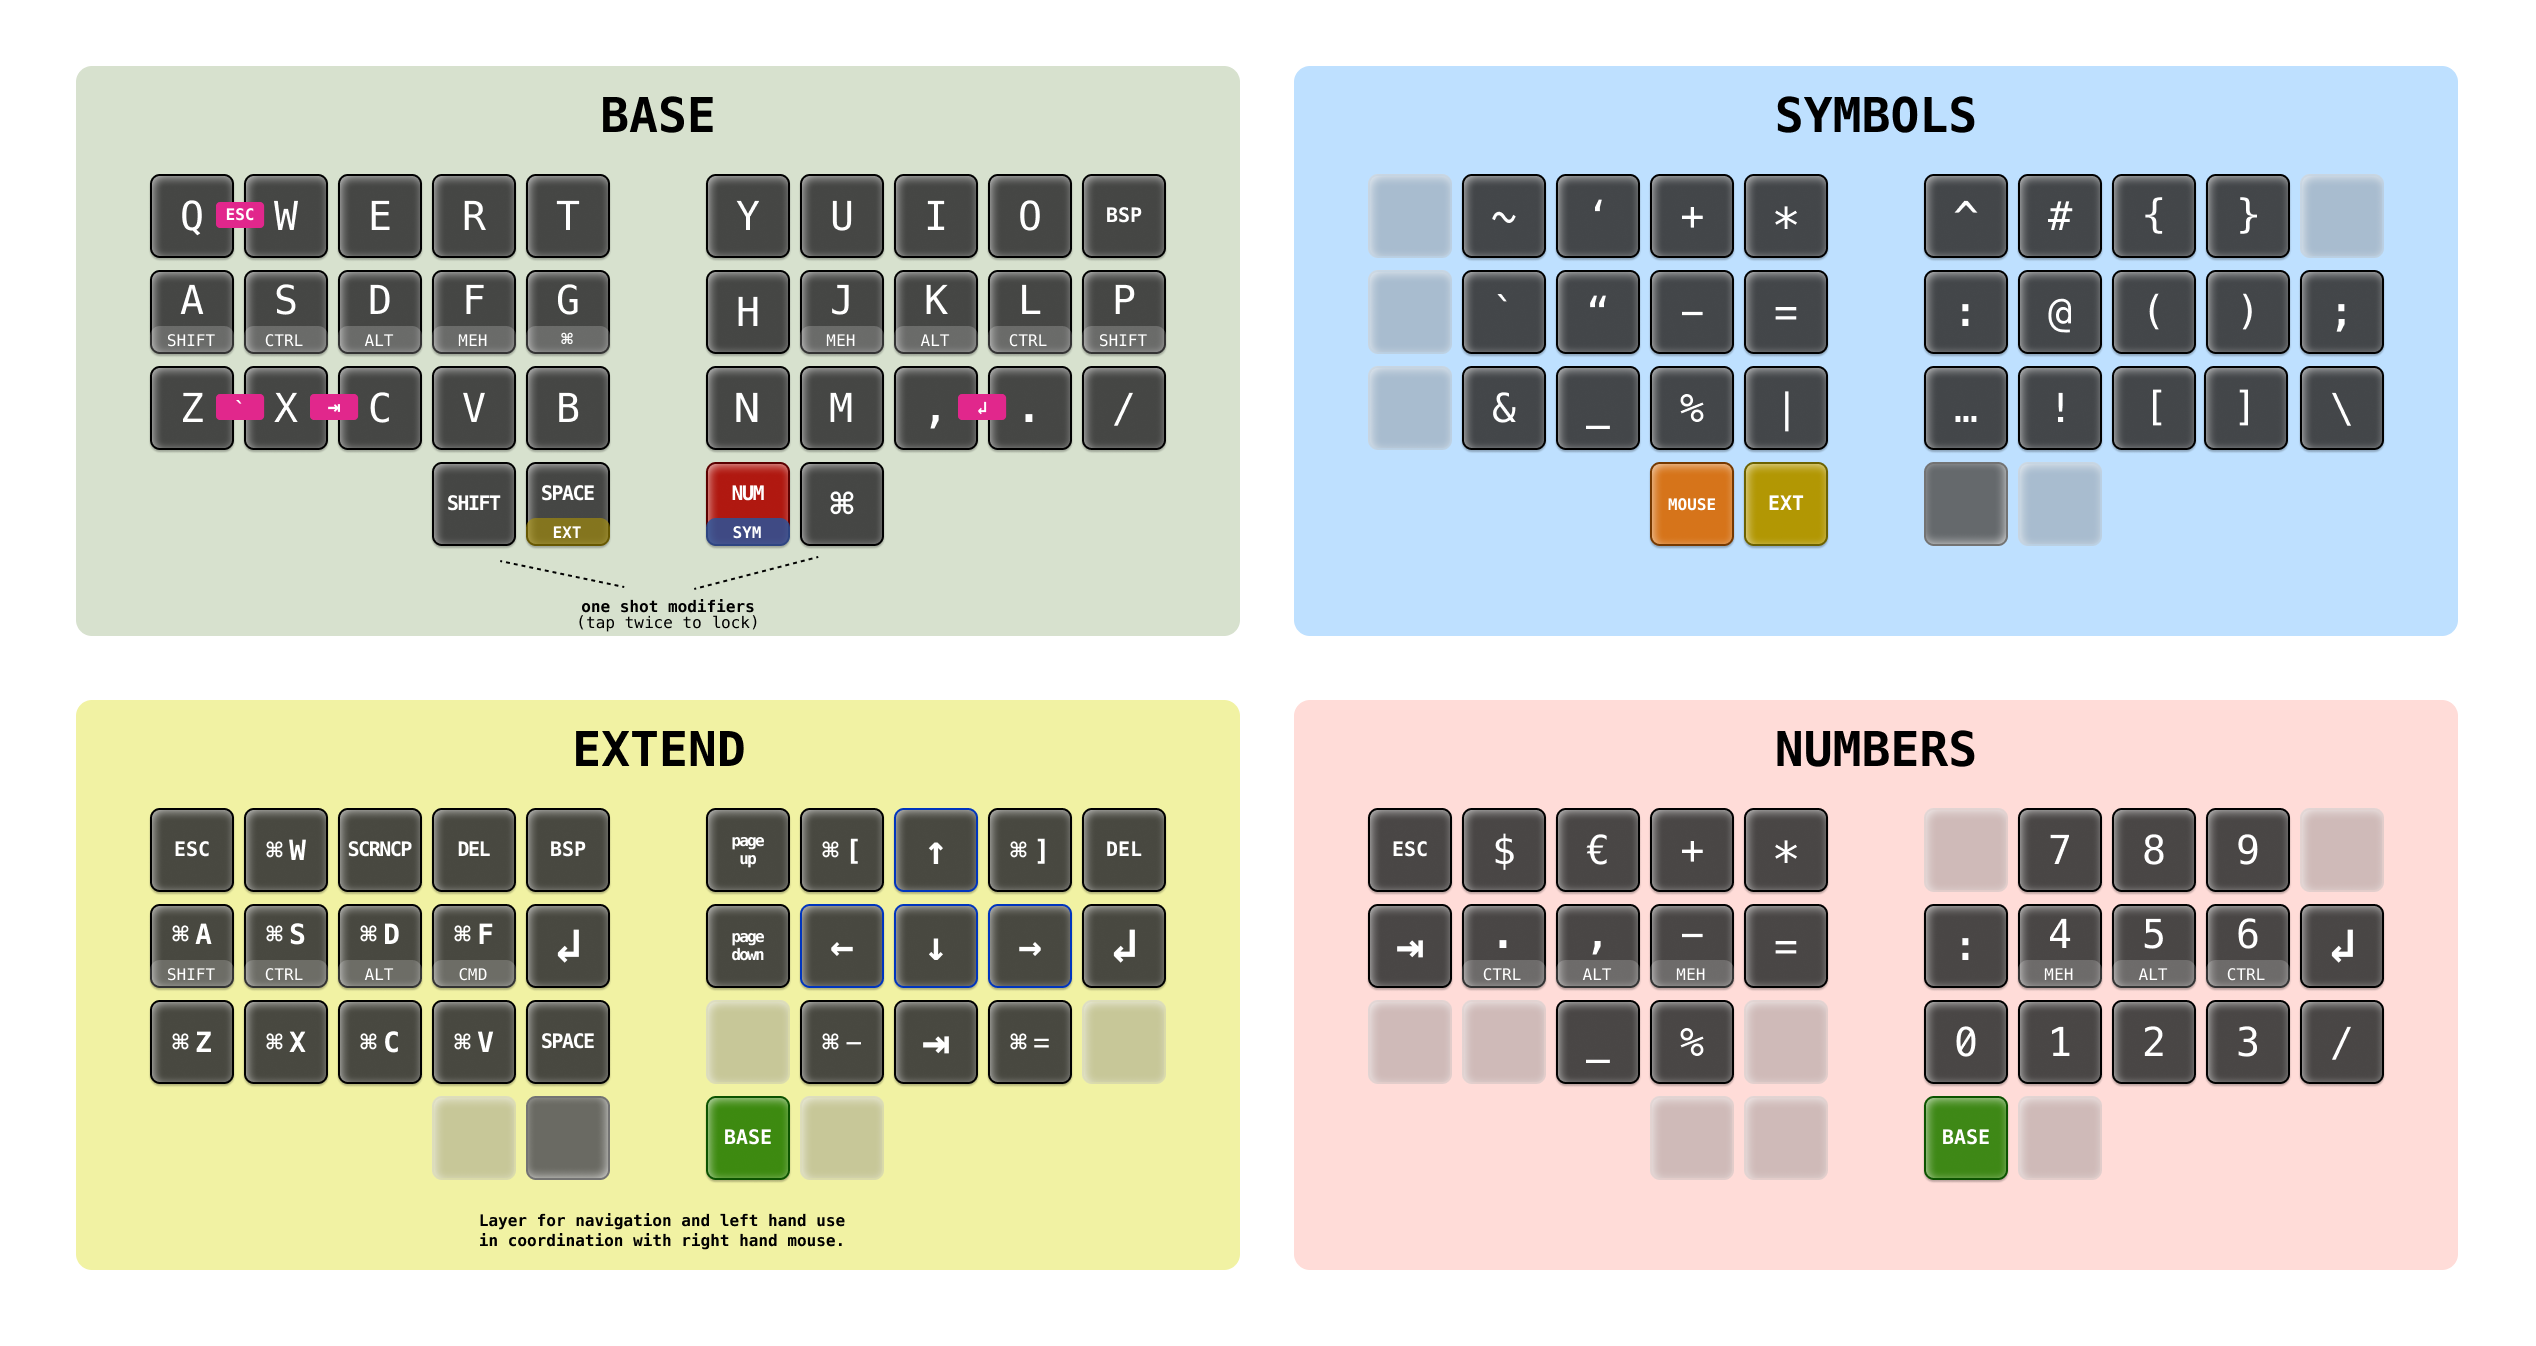
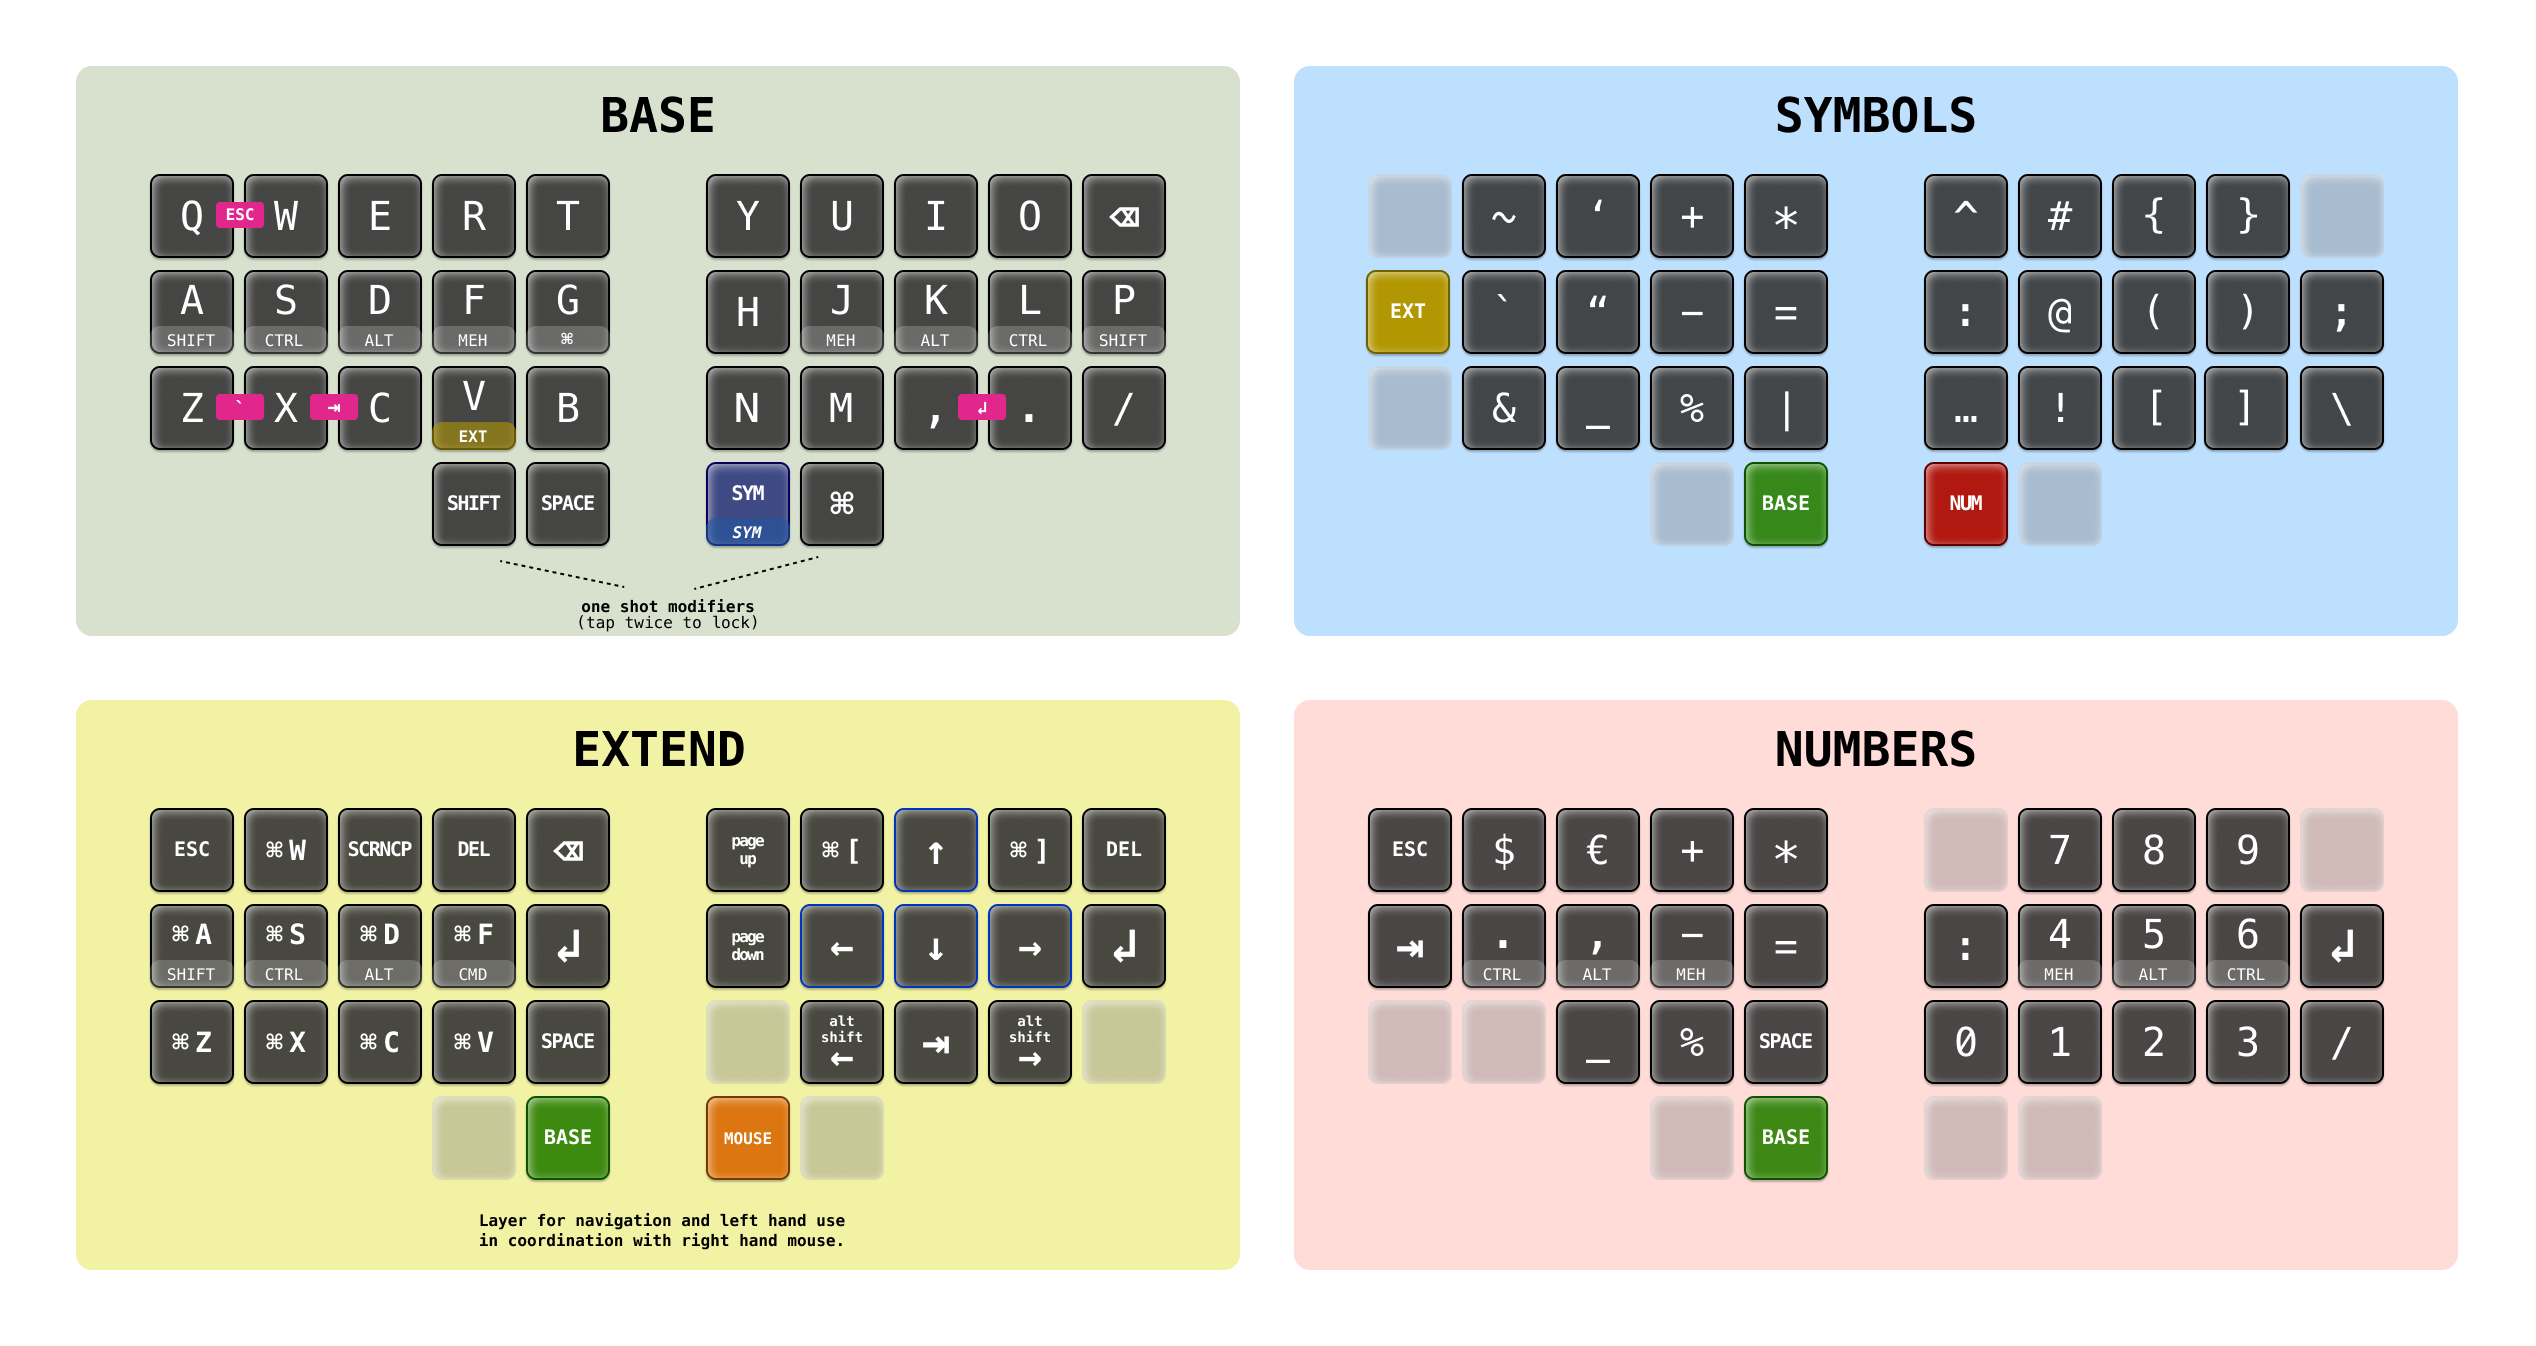
Small updates to thumb sector and extend layer

diff --git a/moonlander-mk3/threefourbase.c b/moonlander-mk3/threefourbase.c
@@ -79,7 +79,7 @@ enum tap_dance_codes {
 #define KR_0_3_1 KC_Z
 #define KR_0_3_2 KC_X
 #define KR_0_3_3 KC_C
-#define KR_0_3_4 KC_V
+#define KR_0_3_4 LT(3, KC_V)
 #define KR_0_3_5 KC_B
 
 #define KR_0_3_6 KC_N
@@ -92,9 +92,9 @@ enum tap_dance_codes {
 
 #define KR_0_4_1 KC_NO
 #define KR_0_4_2 OSM(MOD_LSFT)
-#define KR_0_4_3 LT(3,KC_SPACE)
+#define KR_0_4_3 KC_SPACE
 
-#define KR_0_4_4 TD(DANCE_0)
+#define KR_0_4_4 TT(1)
 #define KR_0_4_5 OSM(MOD_LGUI)
 #define KR_0_4_6 KC_NO
 
@@ -118,7 +118,7 @@ enum tap_dance_codes {
 
 // Mid row
 
-#define KR_1_2_1 KC_TRNS
+#define KR_1_2_1 TO(3)
 #define KR_1_2_2 KC_GRAVE
 #define KR_1_2_3 KC_DQUO
 #define KR_1_2_4 KC_MINUS
@@ -147,10 +147,10 @@ enum tap_dance_codes {
 // Thumb cluser
 
 #define KR_1_4_1 KC_TRNS
-#define KR_1_4_2 TO(4)
-#define KR_1_4_3 TO(3)
+#define KR_1_4_2 KC_TRNS
+#define KR_1_4_3 TO(0)
 
-#define KR_1_4_4 KC_TRNS
+#define KR_1_4_4 TO(2)
 #define KR_1_4_5 KC_TRNS
 #define KR_1_4_6 KC_TRNS
 
@@ -190,7 +190,7 @@ enum tap_dance_codes {
 #define KR_2_3_2 KC_TRNS
 #define KR_2_3_3 KC_UNDS
 #define KR_2_3_4 KC_PERC
-#define KR_2_3_5 KC_TRNS
+#define KR_2_3_5 KC_SPACE
 //
 #define KR_2_3_6 KC_0
 #define KR_2_3_7 KC_1
@@ -202,9 +202,9 @@ enum tap_dance_codes {
 
 #define KR_2_4_1 KC_TRNS
 #define KR_2_4_2 KC_TRNS
-#define KR_2_4_3 KC_TRNS
+#define KR_2_4_3 TO(0)
 
-#define KR_2_4_4 TO(0)
+#define KR_2_4_4 KC_TRNS
 #define KR_2_4_5 KC_TRNS
 #define KR_2_4_6 KC_TRNS
 
@@ -245,18 +245,18 @@ enum tap_dance_codes {
 #define KR_3_3_5 KC_SPACE
 
 #define KR_3_3_6 KC_TRNS
-#define KR_3_3_7 LGUI(KC_MINUS)
+#define KR_3_3_7 S(A(KC_LEFT))
 #define KR_3_3_8 KC_TAB
-#define KR_3_3_9 LGUI(KC_EQUAL)
+#define KR_3_3_9 S(A(KC_RIGHT))
 #define KR_3_3_10 KC_TRNS
 
 // Thumb cluser
 
 #define KR_3_4_1 KC_TRNS
 #define KR_3_4_2 KC_TRNS
-#define KR_3_4_3 KC_TRNS
+#define KR_3_4_3 TO(0)
 
-#define KR_3_4_4 TO(0)
+#define KR_3_4_4 TO(4)
 #define KR_3_4_5 KC_TRNS
 #define KR_3_4_6 KC_TRNS
 
@@ -282,8 +282,8 @@ enum tap_dance_codes {
 #define KR_4_2_1 TD(DANCE_1)
 #define KR_4_2_2 TD(DANCE_2)
 #define KR_4_2_3 TD(DANCE_3)
-#define KR_4_2_4 TD(DANCE_4)
-#define KR_4_2_5 KC_ENTER
+#define KR_4_2_4 KC_BTN1
+#define KR_4_2_5 KC_BTN2
 //
 #define KR_4_2_6 KC_MS_WH_UP
 #define KR_4_2_7 KC_MS_LEFT
@@ -307,10 +307,10 @@ enum tap_dance_codes {
 // Thumb cluser
 
 #define KR_4_4_1 KC_TRNS
-#define KR_4_4_2 KC_BTN2
-#define KR_4_4_3 KC_BTN1
+#define KR_4_4_2 KC_TRNS
+#define KR_4_4_3 TO(0)
 
-#define KR_4_4_4 TO(0)
+#define KR_4_4_4 TO(3)
 #define KR_4_4_5 KC_TRNS
 #define KR_4_4_6 KC_TRNS
 

diff --git a/technik/threefourbase.c b/technik/threefourbase.c
@@ -79,7 +79,7 @@ enum tap_dance_codes {
 #define KR_0_3_1 KC_Z
 #define KR_0_3_2 KC_X
 #define KR_0_3_3 KC_C
-#define KR_0_3_4 KC_V
+#define KR_0_3_4 LT(3, KC_V)
 #define KR_0_3_5 KC_B
 
 #define KR_0_3_6 KC_N
@@ -92,9 +92,9 @@ enum tap_dance_codes {
 
 #define KR_0_4_1 KC_NO
 #define KR_0_4_2 OSM(MOD_LSFT)
-#define KR_0_4_3 LT(3,KC_SPACE)
+#define KR_0_4_3 KC_SPACE
 
-#define KR_0_4_4 TD(DANCE_0)
+#define KR_0_4_4 TT(1)
 #define KR_0_4_5 OSM(MOD_LGUI)
 #define KR_0_4_6 KC_NO
 
@@ -118,7 +118,7 @@ enum tap_dance_codes {
 
 // Mid row
 
-#define KR_1_2_1 KC_TRNS
+#define KR_1_2_1 TO(3)
 #define KR_1_2_2 KC_GRAVE
 #define KR_1_2_3 KC_DQUO
 #define KR_1_2_4 KC_MINUS
@@ -147,10 +147,10 @@ enum tap_dance_codes {
 // Thumb cluser
 
 #define KR_1_4_1 KC_TRNS
-#define KR_1_4_2 TO(4)
-#define KR_1_4_3 TO(3)
+#define KR_1_4_2 KC_TRNS
+#define KR_1_4_3 TO(0)
 
-#define KR_1_4_4 KC_TRNS
+#define KR_1_4_4 TO(2)
 #define KR_1_4_5 KC_TRNS
 #define KR_1_4_6 KC_TRNS
 
@@ -190,7 +190,7 @@ enum tap_dance_codes {
 #define KR_2_3_2 KC_TRNS
 #define KR_2_3_3 KC_UNDS
 #define KR_2_3_4 KC_PERC
-#define KR_2_3_5 KC_TRNS
+#define KR_2_3_5 KC_SPACE
 //
 #define KR_2_3_6 KC_0
 #define KR_2_3_7 KC_1
@@ -202,9 +202,9 @@ enum tap_dance_codes {
 
 #define KR_2_4_1 KC_TRNS
 #define KR_2_4_2 KC_TRNS
-#define KR_2_4_3 KC_TRNS
+#define KR_2_4_3 TO(0)
 
-#define KR_2_4_4 TO(0)
+#define KR_2_4_4 KC_TRNS
 #define KR_2_4_5 KC_TRNS
 #define KR_2_4_6 KC_TRNS
 
@@ -245,18 +245,18 @@ enum tap_dance_codes {
 #define KR_3_3_5 KC_SPACE
 
 #define KR_3_3_6 KC_TRNS
-#define KR_3_3_7 LGUI(KC_MINUS)
+#define KR_3_3_7 S(A(KC_LEFT))
 #define KR_3_3_8 KC_TAB
-#define KR_3_3_9 LGUI(KC_EQUAL)
+#define KR_3_3_9 S(A(KC_RIGHT))
 #define KR_3_3_10 KC_TRNS
 
 // Thumb cluser
 
 #define KR_3_4_1 KC_TRNS
 #define KR_3_4_2 KC_TRNS
-#define KR_3_4_3 KC_TRNS
+#define KR_3_4_3 TO(0)
 
-#define KR_3_4_4 TO(0)
+#define KR_3_4_4 TO(4)
 #define KR_3_4_5 KC_TRNS
 #define KR_3_4_6 KC_TRNS
 
@@ -282,8 +282,8 @@ enum tap_dance_codes {
 #define KR_4_2_1 TD(DANCE_1)
 #define KR_4_2_2 TD(DANCE_2)
 #define KR_4_2_3 TD(DANCE_3)
-#define KR_4_2_4 TD(DANCE_4)
-#define KR_4_2_5 KC_ENTER
+#define KR_4_2_4 KC_BTN1
+#define KR_4_2_5 KC_BTN2
 //
 #define KR_4_2_6 KC_MS_WH_UP
 #define KR_4_2_7 KC_MS_LEFT
@@ -307,10 +307,10 @@ enum tap_dance_codes {
 // Thumb cluser
 
 #define KR_4_4_1 KC_TRNS
-#define KR_4_4_2 KC_BTN2
-#define KR_4_4_3 KC_BTN1
+#define KR_4_4_2 KC_TRNS
+#define KR_4_4_3 TO(0)
 
-#define KR_4_4_4 TO(0)
+#define KR_4_4_4 TO(3)
 #define KR_4_4_5 KC_TRNS
 #define KR_4_4_6 KC_TRNS
 

diff --git a/technik/config.h b/technik/config.h
@@ -57,6 +57,8 @@ along with this program.  If not, see <http://www.gnu.org/licenses/>.
 #undef ONESHOT_TIMEOUT
 #define ONESHOT_TIMEOUT 2000
 
+#define TAPPING_TOGGLE 1
+
 #define IGNORE_MOD_TAP_INTERRUPT
 
 #undef MOUSEKEY_INTERVAL

diff --git a/moonlander-mk3/config.h b/moonlander-mk3/config.h
@@ -25,6 +25,8 @@
 #undef ONESHOT_TIMEOUT
 #define ONESHOT_TIMEOUT 2000
 
+#define TAPPING_TOGGLE 1
+
 #define IGNORE_MOD_TAP_INTERRUPT
 
 #define USB_SUSPEND_WAKEUP_DELAY 0
